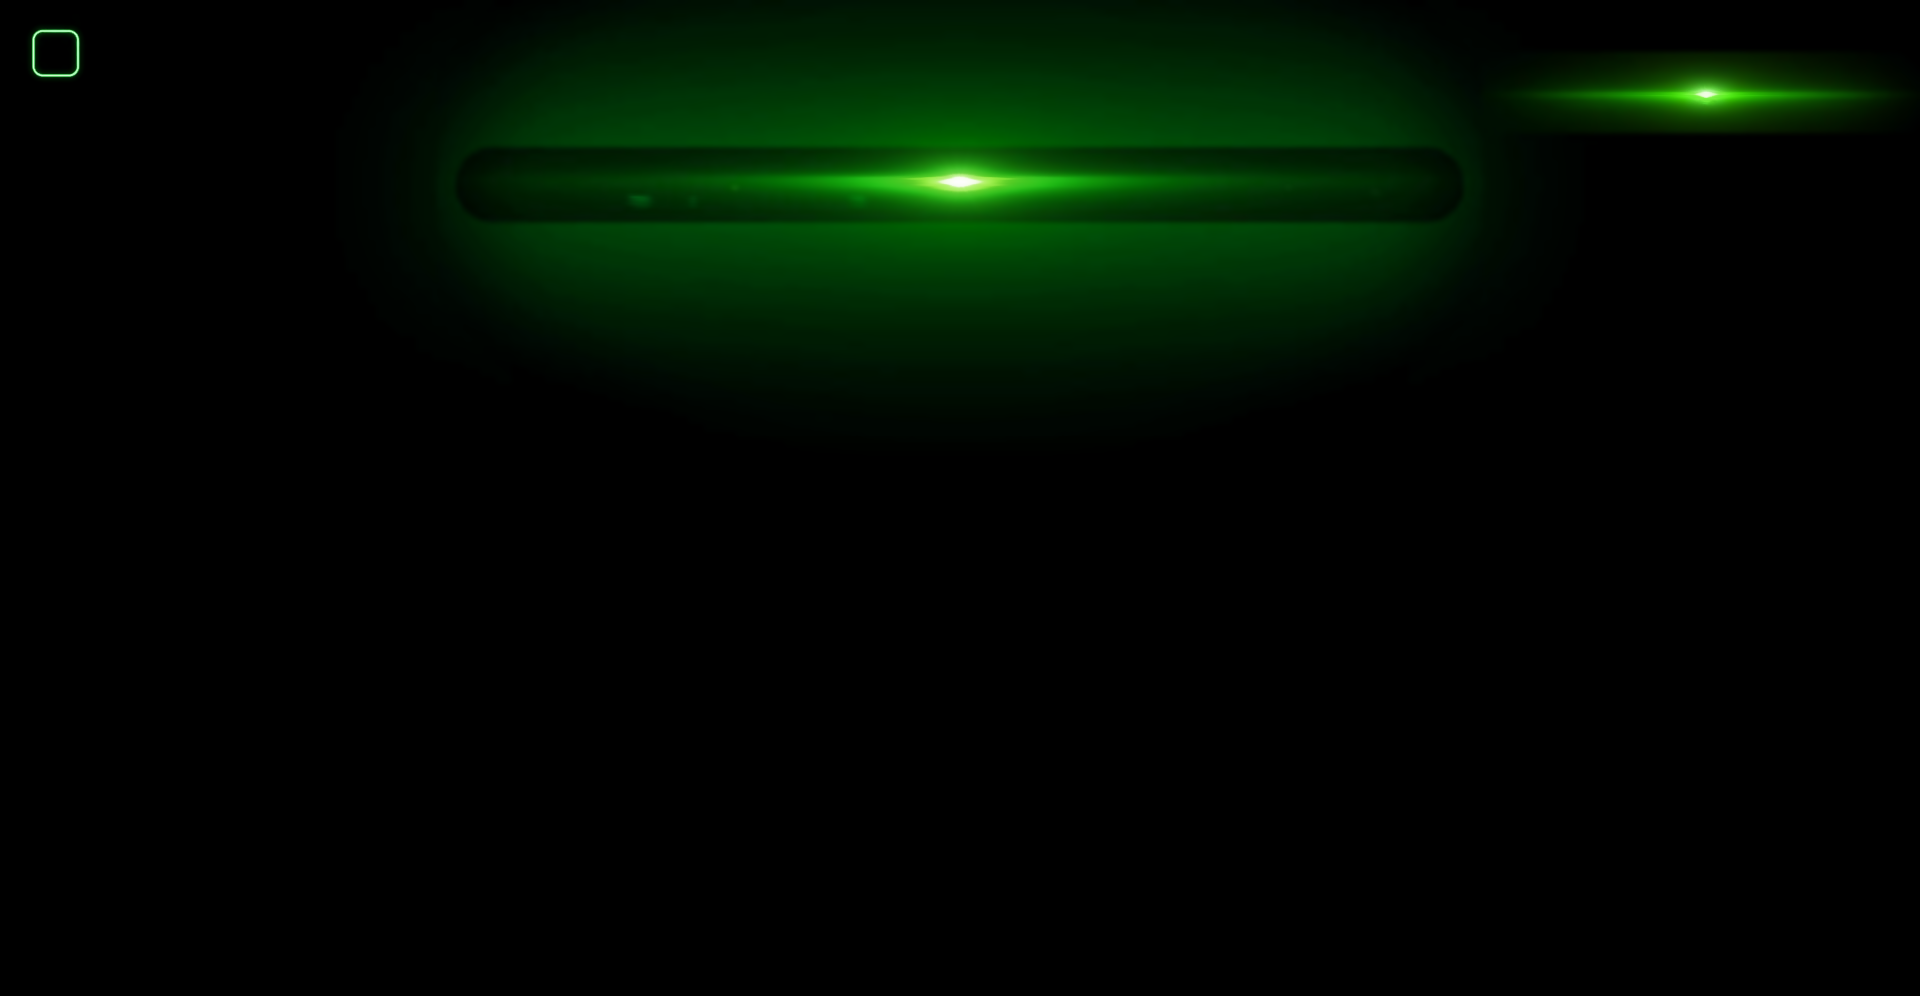
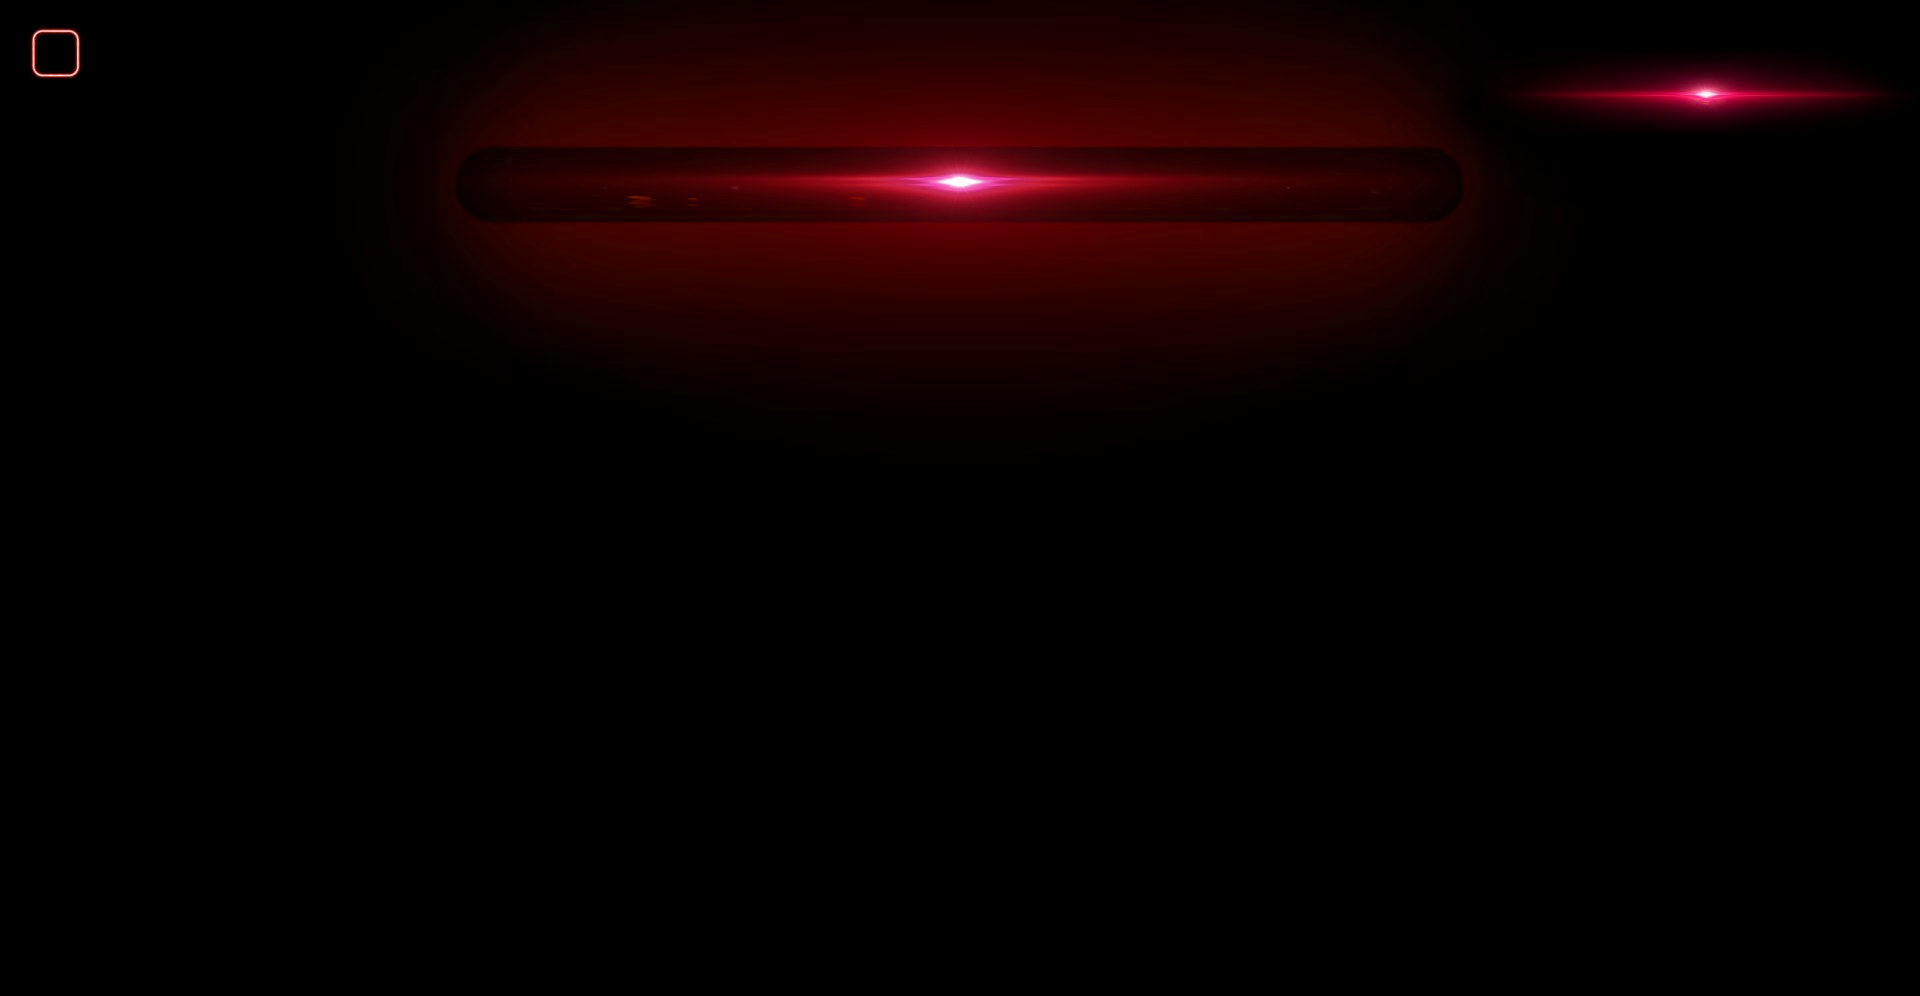
fix: images

Changed region(s): [[0.2188, 0.0, 0.7812, 0.3735], [0.7812, 0.0311, 1.0, 0.1556], [0.0, 0.0311, 0.0625, 0.0934]]

diff --git a/Edge-Versions/procesar_temas.py b/Edge-Versions/procesar_temas.py
@@ -1,0 +1,155 @@
+import os
+import shutil
+from PIL import Image
+import colorsys
+
+# Configuración de los 11 temas
+TEMAS_CONFIG = {
+    "Blue-Dark-Theme-Neon": 0.0,            # Tema base original
+    "Cyberpunk-Magenta-Theme-Neon": 0.25,   # Rosa / Magenta
+    "Deep-Violet-Theme-Neon": 0.15,         # Violeta / Púrpura
+    "Electric-lce-Theme-Neon": -0.08,       # Cian / Hielo
+    "Golden-Gold-Theme-Neon": 0.52,         # Dorado / Amarillo
+    "Matrix-Hacker-Theme-Neon": 0.38,       # Verde Matrix
+    "Red-Voltage-Theme-Neon": 0.40,         # Rojo
+    "Retrofuturismo-Amber-Theme-Neon": 0.48,# Ámbar / Naranja
+    "Silver-Steel-Theme-Neon": 0.0,         # Plata / Gris
+    "Sunset-Coral-Theme-Neon": 0.43,        # Coral
+    "Teal-Vaporwave-Theme-Neon": 0.32       # Turquesa / Teal
+}
+
+NOMBRE_TEMA_BASE = "Blue-Dark-Theme-Neon"
+
+def cambiar_tono(img, shift_hue):
+    """Aplica un cambio de tono (Hue) manteniendo la transparencia y brillo."""
+    if shift_hue == 0.0:
+        return img
+
+    img = img.convert("RGBA")
+    pixels = img.load()
+    width, height = img.size
+
+    for x in range(width):
+        for y in range(height):
+            r, g, b, a = pixels[x, y]
+            if a == 0:
+                continue
+
+            h, s, v = colorsys.rgb_to_hsv(r / 255.0, g / 255.0, b / 255.0)
+            nuevo_h = (h + shift_hue) % 1.0
+            nuevo_r, nuevo_g, nuevo_b = colorsys.hsv_to_rgb(nuevo_h, s, v)
+
+            pixels[x, y] = (
+                int(nuevo_r * 255),
+                int(nuevo_g * 255),
+                int(nuevo_b * 255),
+                a
+            )
+    return img
+
+def superponer_edge(img_base, img_overlay_path, padding=10, escala_relativa=0.25):
+    """Superpone edge.png en la esquina inferior derecha de img_base."""
+    if not os.path.exists(img_overlay_path):
+        print(f"   ⚠ No se encontró {img_overlay_path}")
+        return img_base
+
+    overlay = Image.open(img_overlay_path).convert("RGBA")
+    
+    base_w, base_h = img_base.size
+    nuevo_ancho = int(base_w * escala_relativa)
+    ratio = nuevo_ancho / float(overlay.width)
+    nuevo_alto = int(float(overlay.height) * float(ratio))
+    
+    overlay = overlay.resize((nuevo_ancho, nuevo_alto), Image.Resampling.LANCZOS)
+
+    pos_x = base_w - nuevo_ancho - padding
+    pos_y = base_h - nuevo_alto - padding
+
+    capa_comb = Image.new("RGBA", img_base.size, (0, 0, 0, 0))
+    capa_comb.paste(img_base, (0, 0))
+    capa_comb.paste(overlay, (pos_x, pos_y), mask=overlay)
+
+    return capa_comb
+
+def restaurar_imagenes_desde_base(raiz_script):
+    """Limpia y copia las imágenes del tema base hacia los otros temas."""
+    ruta_base_images = os.path.join(raiz_script, NOMBRE_TEMA_BASE, "images")
+
+    if not os.path.exists(ruta_base_images):
+        raise FileNotFoundError(f"❌ No se encontró la carpeta base original: {ruta_base_images}")
+
+    print("🔄 Limpiando carpetas y clonando imágenes originales desde Blue-Dark-Theme-Neon...")
+
+    # Lista de archivos originales en la carpeta base
+    archivos_base = [
+        f for f in os.listdir(ruta_base_images) 
+        if f.lower().endswith(('.png', '.jpg', '.jpeg', '.webp'))
+    ]
+
+    for carpeta_tema in TEMAS_CONFIG.keys():
+        if carpeta_tema == NOMBRE_TEMA_BASE:
+            continue
+
+        ruta_destino_images = os.path.join(raiz_script, carpeta_tema, "images")
+
+        # Asegurar que existe la carpeta destino
+        os.makedirs(ruta_destino_images, exist_ok=True)
+
+        # 1. Vaciar imágenes existentes
+        for archivo in os.listdir(ruta_destino_images):
+            if archivo.lower().endswith(('.png', '.jpg', '.jpeg', '.webp')):
+                os.remove(os.path.join(ruta_destino_images, archivo))
+
+        # 2. Copiar archivos originales desde el tema base
+        for archivo in archivos_base:
+            src = os.path.join(ruta_base_images, archivo)
+            dst = os.path.join(ruta_destino_images, archivo)
+            shutil.copy2(src, dst)
+
+        print(f"   ✓ Imágenes restauradas en: {carpeta_tema}")
+
+def procesar_todo():
+    raiz_script = os.path.dirname(os.path.abspath(__file__))
+    
+    # Subir un nivel para encontrar assets/edge.png
+    ruta_edge = os.path.abspath(os.path.join(raiz_script, "..", "assets", "edge.png"))
+
+    print(f"🔍 Logo Edge configurado en: {ruta_edge}\n")
+
+    # Paso A: Restaurar/Clonar las imágenes desde el tema base
+    restaurar_imagenes_desde_base(raiz_script)
+
+    print("\n🎨 Aplicando recambio de tono y marca Edge...")
+
+    # Paso B: Aplicar cambios de color y marca de agua
+    for carpeta_tema, shift in TEMAS_CONFIG.items():
+        ruta_images = os.path.join(raiz_script, carpeta_tema, "images")
+
+        if not os.path.exists(ruta_images):
+            print(f"\n❌ La carpeta no existe: {ruta_images}")
+            continue
+
+        print(f"\n🎨 Procesando tema: {carpeta_tema}...")
+
+        for archivo in os.listdir(ruta_images):
+            if archivo.lower().endswith(('.png', '.jpg', '.jpeg', '.webp')):
+                ruta_archivo = os.path.join(ruta_images, archivo)
+                img = Image.open(ruta_archivo).convert("RGBA")
+
+                # 1. Aplicar cambio de tono
+                img_modificada = cambiar_tono(img, shift)
+
+                # 2. Superponer marca Edge solo en logo-gem.png
+                if archivo.lower() == "logo-gem.png":
+                    img_modificada = superponer_edge(img_modificada, ruta_edge)
+                    print(f"   ✓ Recolor y marca Edge añadida a: {archivo}")
+                else:
+                    print(f"   ✓ Recolor aplicado a: {archivo}")
+
+                # Guardar cambios
+                img_modificada.save(ruta_archivo)
+
+    print("\n🚀 ¡Proceso de restauración y reemplazo completado con éxito!")
+
+if __name__ == "__main__":
+    procesar_todo()

diff --git a/Edge-Versions/empaquetar_temas.py b/Edge-Versions/empaquetar_temas.py
@@ -1,0 +1,69 @@
+import os
+import zipfile
+
+# Lista de tus temas
+TEMAS = [
+    "Blue-Dark-Theme-Neon",
+    "Cyberpunk-Magenta-Theme-Neon",
+    "Deep-Violet-Theme-Neon",
+    "Electric-lce-Theme-Neon",
+    "Golden-Gold-Theme-Neon",
+    "Matrix-Hacker-Theme-Neon",
+    "Red-Voltage-Theme-Neon",
+    "Retrofuturismo-Amber-Theme-Neon",
+    "Silver-Steel-Theme-Neon",
+    "Sunset-Coral-Theme-Neon",
+    "Teal-Vaporwave-Theme-Neon"
+]
+
+def comprimir_tema(ruta_tema, ruta_zip_salida):
+    """Comprime manifest.json y la carpeta images/ en la raíz del archivo .zip."""
+    ruta_manifest = os.path.join(ruta_tema, "manifest.json")
+    ruta_images = os.path.join(ruta_tema, "images")
+
+    # Verificaciones previas
+    if not os.path.exists(ruta_manifest):
+        print(f"   ⚠ No se encontró manifest.json en: {ruta_tema}")
+        return False
+
+    if not os.path.exists(ruta_images):
+        print(f"   ⚠ No se encontró la carpeta images/ en: {ruta_tema}")
+        return False
+
+    with zipfile.ZipFile(ruta_zip_salida, 'w', zipfile.ZIP_DEFLATED) as zipf:
+        # 1. Agregar manifest.json en la raíz del zip
+        zipf.write(ruta_manifest, arcname="manifest.json")
+
+        # 2. Agregar el contenido de images/ dentro de la estructura 'images/...'
+        for root, _, files in os.walk(ruta_images):
+            for file in files:
+                ruta_completa = os.path.join(root, file)
+                # Calcula la ruta relativa para conservar la carpeta 'images/nombre_archivo'
+                rel_path = os.path.relpath(ruta_completa, ruta_tema)
+                zipf.write(ruta_completa, arcname=rel_path)
+
+    return True
+
+def procesar_compresion():
+    raiz_script = os.path.dirname(os.path.abspath(__file__))
+
+    print("📦 Iniciando compresión de temas para la Chrome Web Store...\n")
+
+    for tema in TEMAS:
+        ruta_tema = os.path.join(raiz_script, tema)
+
+        if not os.path.exists(ruta_tema):
+            print(f"❌ La carpeta del tema no existe: {ruta_tema}")
+            continue
+
+        # El archivo .zip se guardará en la raíz principal (donde corre el script)
+        nombre_zip = f"{tema}.zip"
+        ruta_zip_salida = os.path.join(raiz_script, nombre_zip)
+
+        if comprimir_tema(ruta_tema, ruta_zip_salida):
+            print(f"   ✓ Creado: {nombre_zip}")
+
+    print("\n🚀 ¡Todos los temas han sido comprimidos en la raíz!")
+
+if __name__ == "__main__":
+    procesar_compresion()
